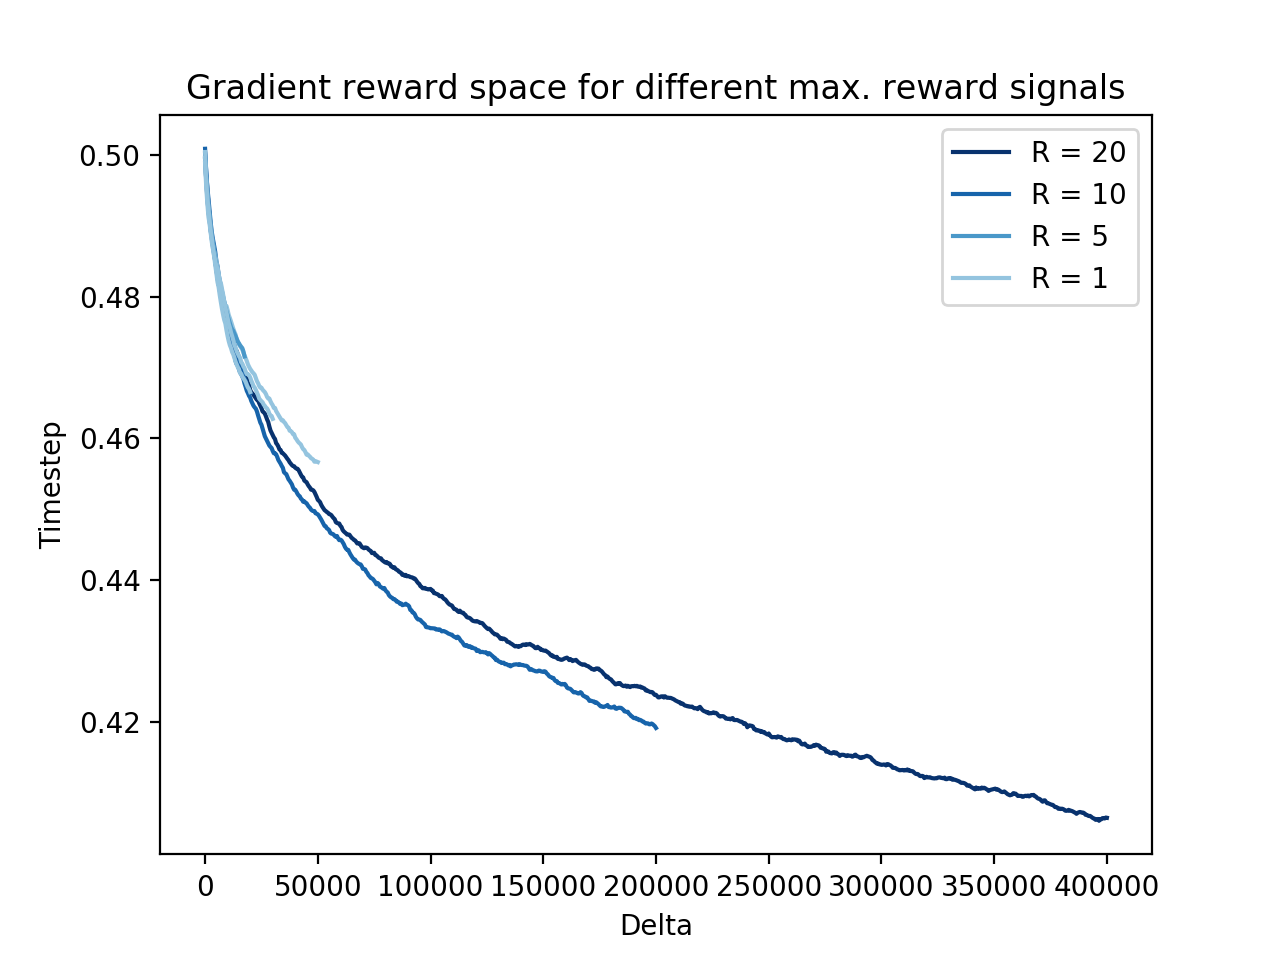
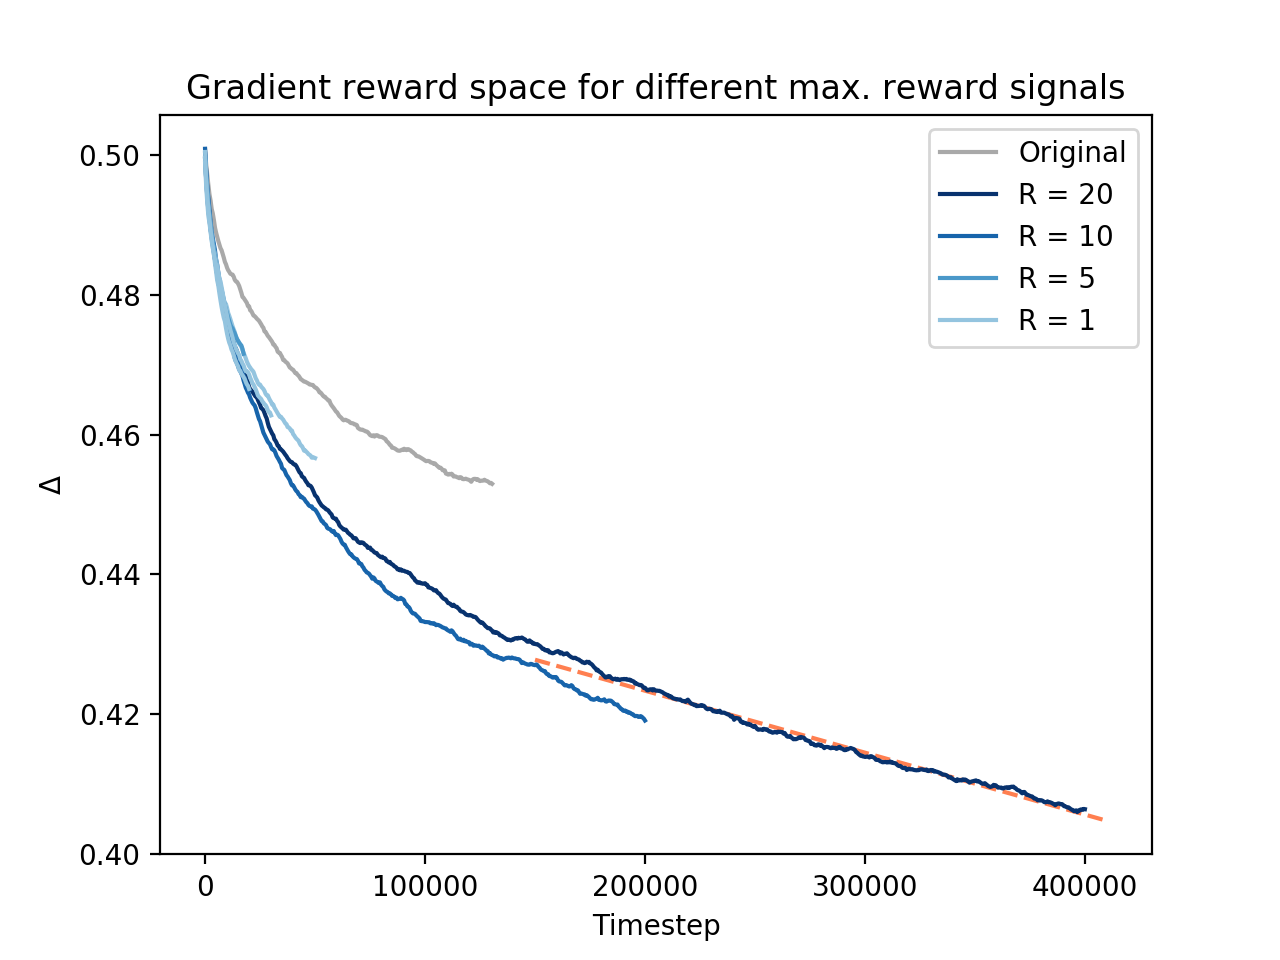
Included some observations about the 11.5 hour fit.

diff --git a/data/20200416/Delta_grad.py b/data/20200416/Delta_grad.py
@@ -4,10 +4,21 @@ sys.path.append(os.path.join(sys.path[0], '..', '..'))
 
 import plot as p
 from matplotlib import pyplot as plt
+import numpy as np
 
 if __name__ == "__main__":
     cmap = plt.get_cmap('Blues')
 
+    # Linear fit for tail of 20200416-190443
+    start = 175_000
+    data = np.load('20200416-190443-Delta.npy')[start//500:]
+    [a, b], cov = np.polyfit(start + 500 * np.arange(len(data)), data, 1, cov = True)
+    x = np.linspace(150_000, 410_000, 2)
+    plt.plot(x, a * x + b, linestyle = '--', color = 'coral')
+    print(f'y = {round(a, 10)} * x + {round(b, 2)}')
+    print(cov)
+
+    p.plot_Delta('../20200409/20200409-164937-Delta.npy', color = 'darkgray', label = 'Original')
     p.plot_Delta('20200416-190443-Delta.npy', label = 'R = 20', color = cmap(0.99))
     p.plot_Delta('../20200415/20200415-144158-Delta.npy', label = 'R = 10', color = cmap(0.8))
     p.plot_Delta('../20200415/20200415-154211-Delta.npy', color = cmap(0.8))
@@ -18,6 +29,6 @@ if __name__ == "__main__":
 
     plt.legend()
     plt.title('Gradient reward space for different max. reward signals')
-    plt.xlabel('Delta')
-    plt.ylabel('Timestep')
+    plt.ylabel('$\Delta$')
+    plt.xlabel('Timestep')
     plt.show()

diff --git a/data/20200416/observations.md b/data/20200416/observations.md
@@ -1,0 +1,9 @@
+## A few quick observations based on new long simulation
+
+Simulation 20200416-190443 is performed on rembrandt (my office PC), with two tmes as many timesteps as the previous (400,000). Started at april 16 19:04 and ended april 17 06:39, so in total it took aoround 11.5 hours. We chose for a gradient reward space and a maximum reward signal R = 20. The result is plotted below along with the other simulations using gradient rewards.
+
+![Gradient rewards](Delta_grad.png)
+
+The results definitely show that increasing R does not have any significant effect on the learning curve. The previous simulation had R = 5 and seems to learn faster than this one, though the difference is not very big. The others also stay roughly on the same course. But what is clear is that the gradient reward system is a significant improvement, as can be seen from our reference simulation.
+
+Interestingly, the tail looks a bit linear. I did a fit from timestep 175,000, which returned `Δ = -8.87e-08 * T + 0.44`. Might it keep going on this trend, this will mean that we will need around 4,960,541 timesteps, so more than 10 times this simulation length (which will thus take around 5 days). Of course it is uncertain how 
